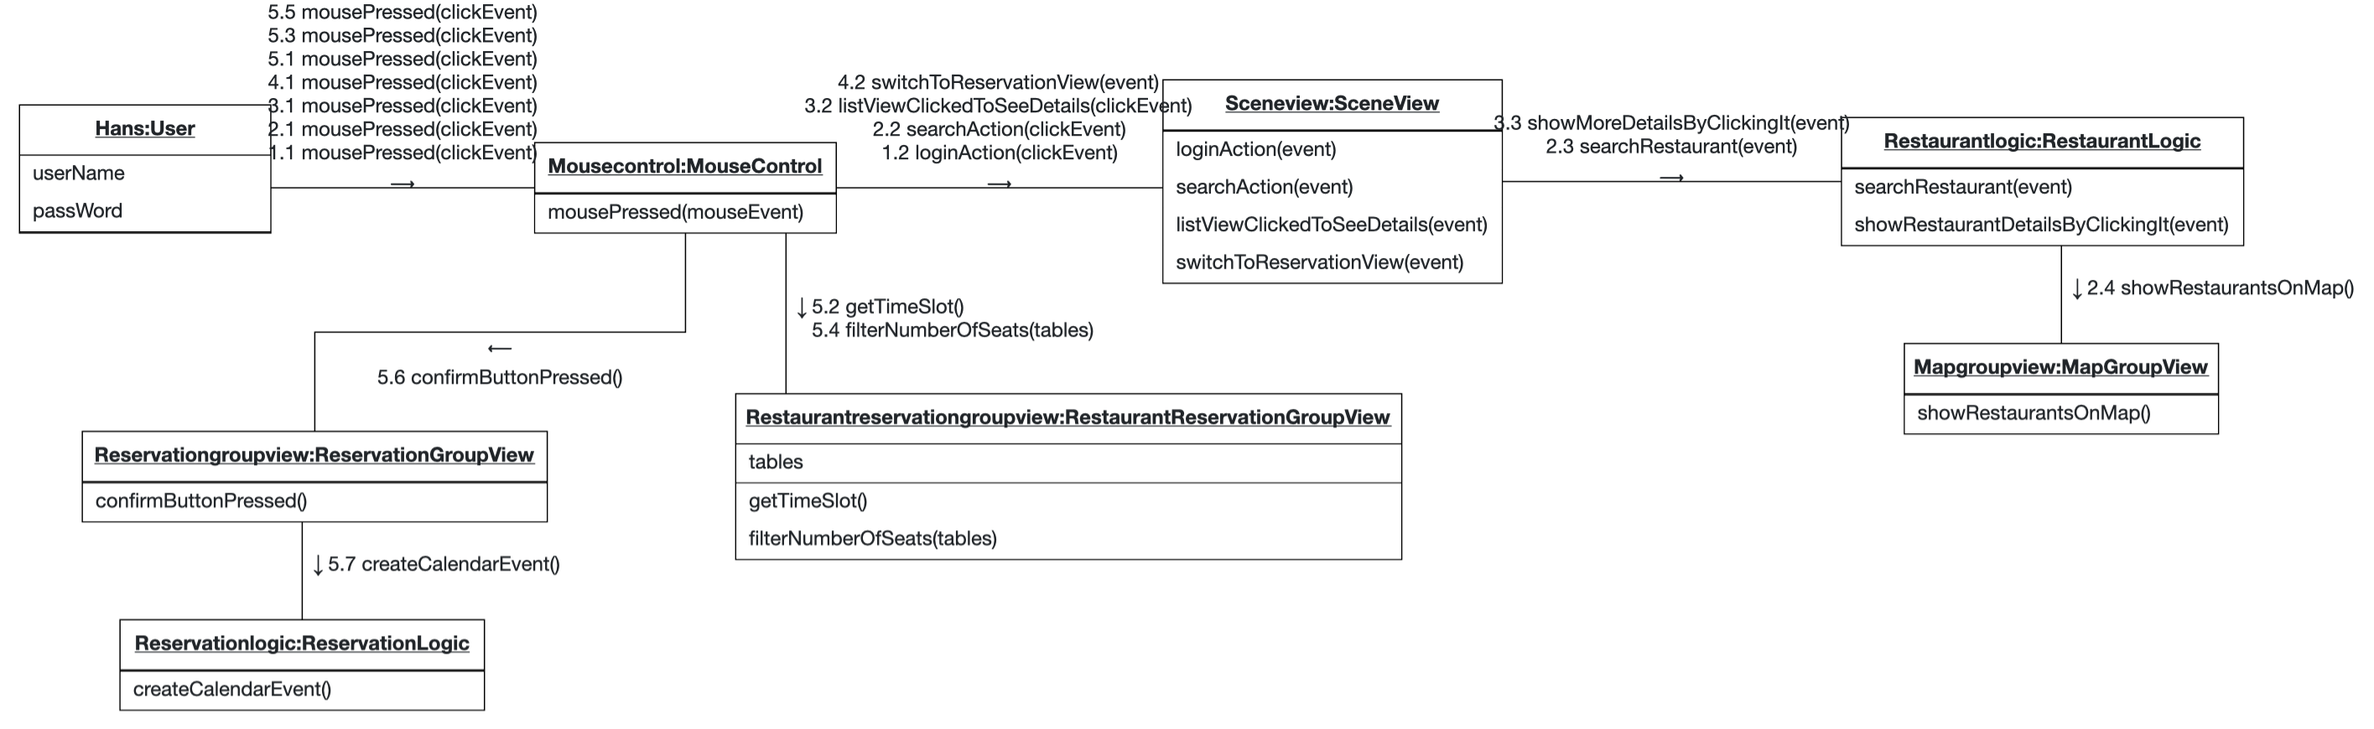
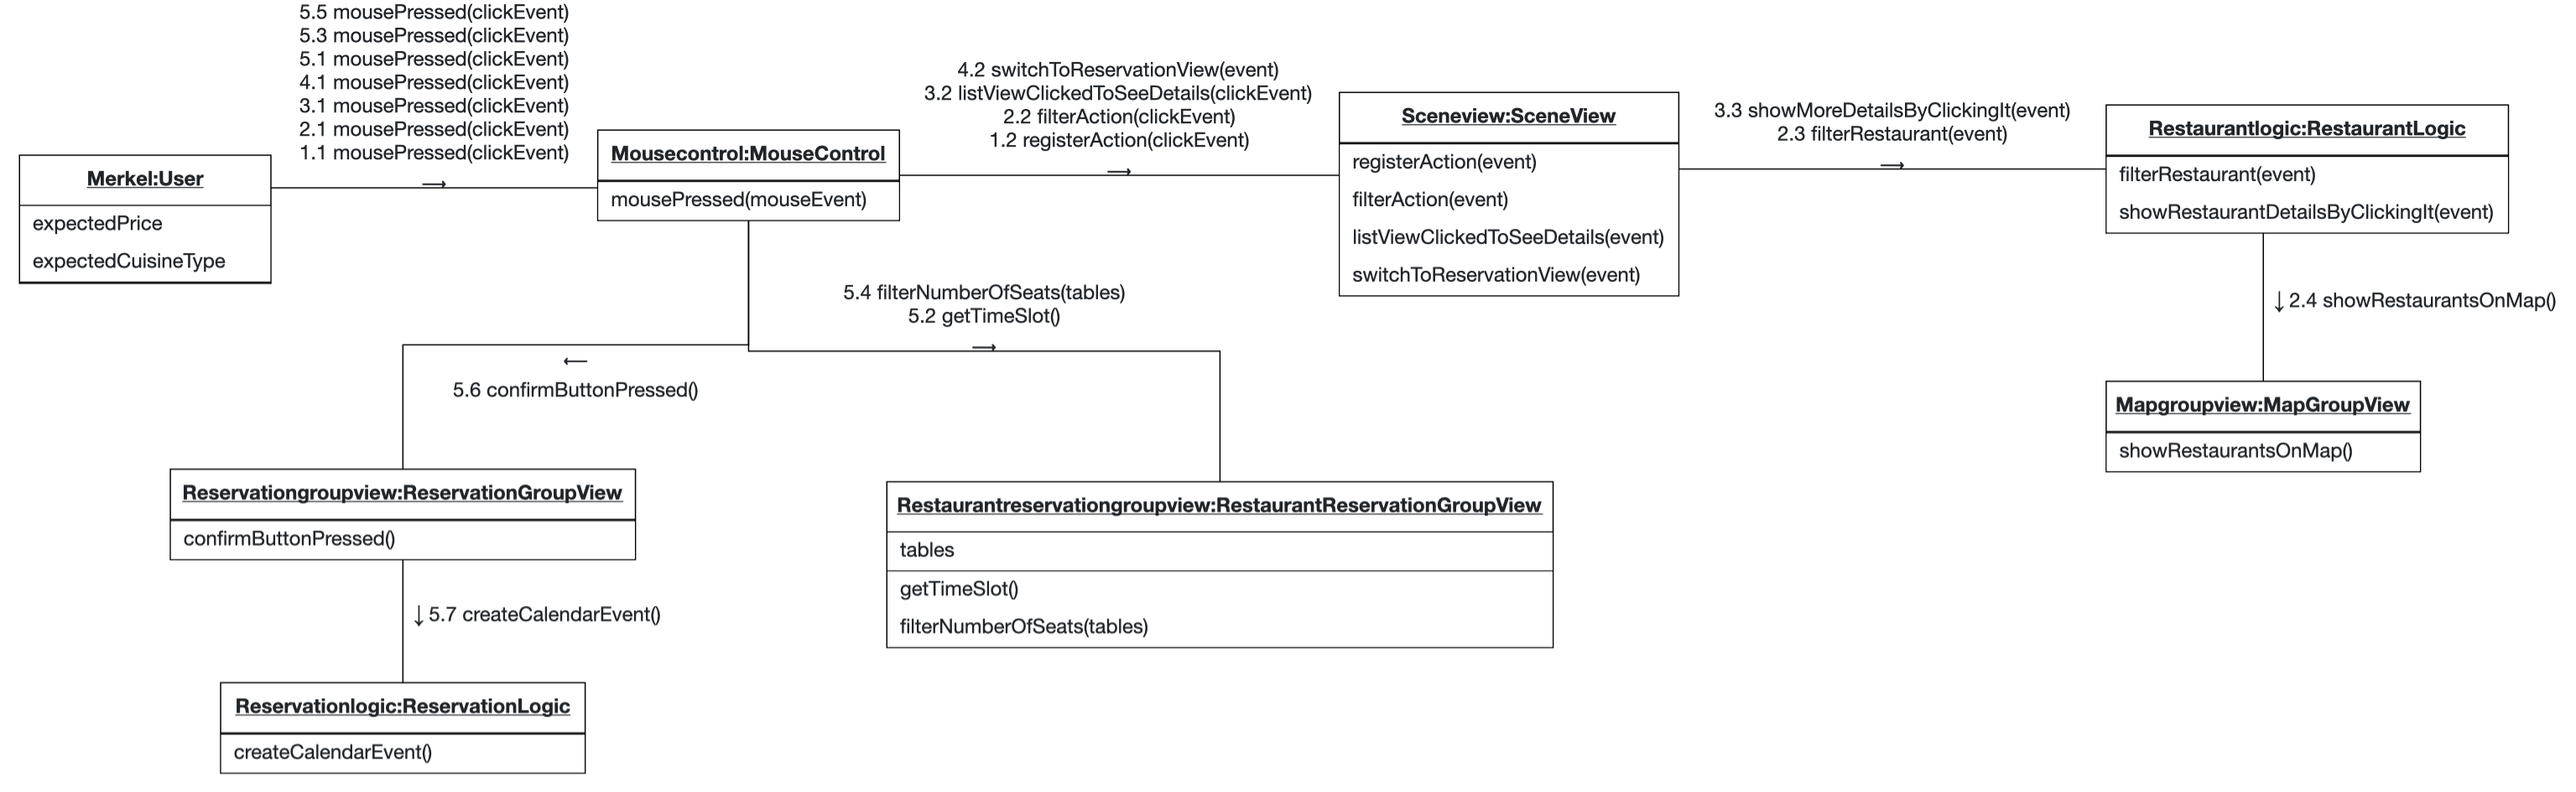
update Model

diff --git a/src/client/java/pinguPinguEat/view/SceneView.java b/src/client/java/pinguPinguEat/view/SceneView.java
@@ -158,6 +158,10 @@ public class SceneView {
     void searchAction(ActionEvent event) {
         restaurantLogic.searchRestuarant(event);
     }
+ @FXML
+    void filterAction(ActionEvent event) {
+        restaurantLogic.filterRestuarant(event);
+    }
 
     void listViewClickedToSeeDetails(ActionEvent event){
         restaurantLogic.showRestaurantDetailsByClickingIt(event);
